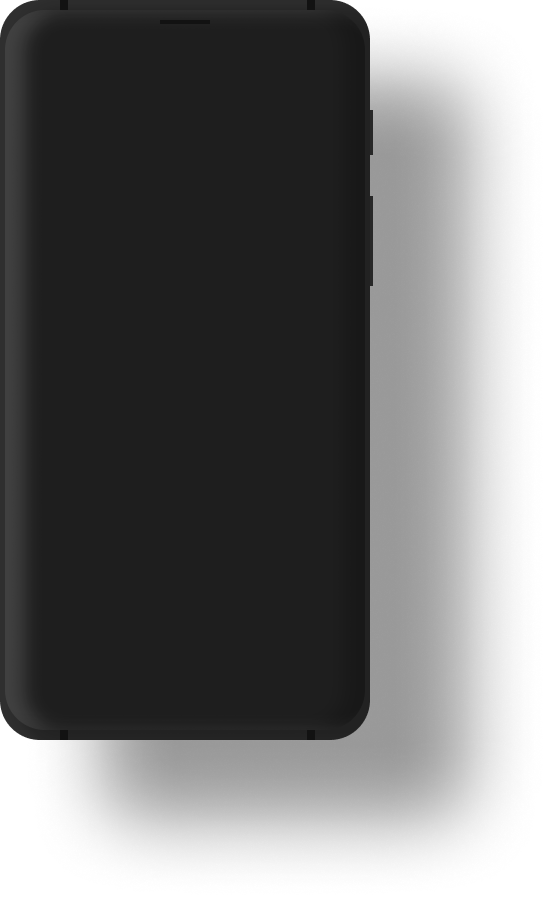
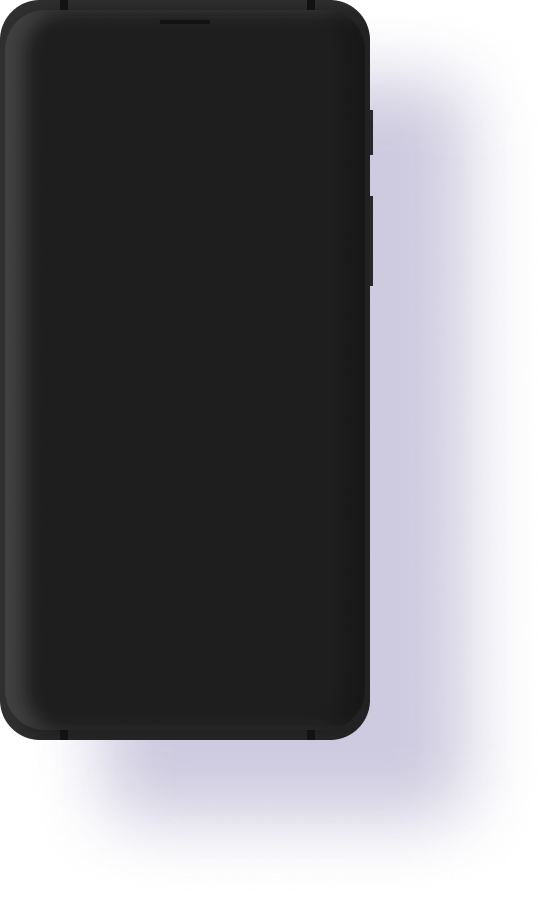
feat: add information in projects seccion

Changed region(s): [[0.1545, 0.0622, 0.8964, 0.9333]]

diff --git a/index.html b/index.html
@@ -107,25 +107,44 @@
         <div id="infoProjects">
           <div id="infoProject1" style="display: block">
             <div class="projectTitle">
-                easyRider
+                easyRIDER
+            </div>
+            <div class="projectText">
+              As a concept case, I created a new ridesharing-service for best ager. </br></br>The app service is meant to provide a solution for seniors to book a ride from A to B. In addition, it would let you combine multiple rides to one trip an also provide cars that meet different user needs.
+            </br></br>Stock used: Sketch, InVision Studio.  </br>
             </div>
           </div>
           <div id="infoProject2">
-            <div class="projectTitle">IDBA Website</div>
+            <div class="projectTitle">Microsite for IDBA</div>
             <div class="projectText">
-              Microsite for the event Indie Developer Burger Awards. [Sketch, Principle]  </br>
+              In this case, as part of the UX/UI Design Bootcamp at IronHack, the assignment was to design a microsite for any event that we chose. </br></br> I was looking for something that inspired me, as for that I started looking for events that I had already visited in the past. In 2018 I had the opportunity to attend to the Indie Developer Burguer Awards as a representative of the indie studio Kraftum Games and I loved it. The awards are very entertaining and are a great opportunity to meet new people in the game industry. </br></br>
+            </br>Stock used: Sketch, Principle.  </br>
               <a href="https://medium.com/@gemmabenitez/a-microsite-for-idba-c7e8e47bf06e?sk=a769d49ba3b8645826614709b53c8abf" target="_blank">
                 <img src="media/ButtonInfo.png" alt="More Info"></a>
             </div>
           </div>
           <div id="infoProject3">
             <div class="projectTitle">FastFood</div>
-          </div>
+          <div class="projectText">
+            FastFood is a concept game. </br></br> It is a hyper-casual version of Cooking Fever where one should serve the food as fast as possible and be careful not to serve the wrong order.
+            </br></br>Stock used: Sketch, Principle.  </br>
+          </div></div>
           <div id="infoProject4">
             <div class="projectTitle">SiemensPlayground</div>
-          </div>
+            <div class="projectText">
+              Everything started when Siemens Mobility was building a new type of office, where workers could go to work with their kids. </br> That is when they found the necessity to build an app to entertain the kids and at the same time show what their parents do at work.The app would be installed on the office iPads and used by kids between 4 and 8 years old. </br></br>
+              <a href="http://alexandre-mauro.com/" target="_blank">Alexandre Mauro</a> and I team up and started together this 12 days assignment as our las project in the Ironhack UX/UI Bootcamp
+            </br></br>Stock used: Sketch, Illustrator, Principle. </br>
+            <a href="https://medium.com/@gemmabenitez/siemens-playground-3e081556934f" target="_blank">
+              <img src="media/ButtonInfo.png" alt="More Info"></a>
+            </div></div>
           <div id="infoProject5">
             <div class="projectTitle">Hologram</div>
+            <div class="projectText">
+              Hologram is a work in progress game where I'm working as UX/UI Design at <a href="http://kraftumgames.com/" target="_blank">KraftumGames</a>. </br></br>
+              It is our first retro-futuristic console/PC game that can be classified as an Isometric Voxel-Art Adventure, TBA.
+            </br></br>Stock used: Sketch, Unity.  </br>
+            </div>
           </div>
         </div>
       </div>
@@ -199,7 +218,7 @@
 
 
   <footer>
-    <p> design and developed by myself with love</p>
+    <p> design with Figma and developed with HTML, CSS and JS with love by myself</p>
 <!--    <p>
        <a href="mailto:gbenitezterreu@gmail.com" target="_blank">gbenitezterreu@gmail.com</a>
     </p>

diff --git a/style.css b/style.css
@@ -276,7 +276,7 @@ nav {
 
   .containerProjects{
     display: grid;
-    grid-template-columns: 42% auto;
+    grid-template-columns: 40.5% auto;
   }
 
   #mockup {
@@ -365,7 +365,7 @@ nav {
   }
 
   .cardServices{
-    box-shadow: 25px 25px 50px rgba(61, 43, 429, 0.25);
+    box-shadow: 25px 25px 50px rgba(61, 43, 129, 0.25);
     border-radius: 25px;
     position:relative;
     height: 500px;
